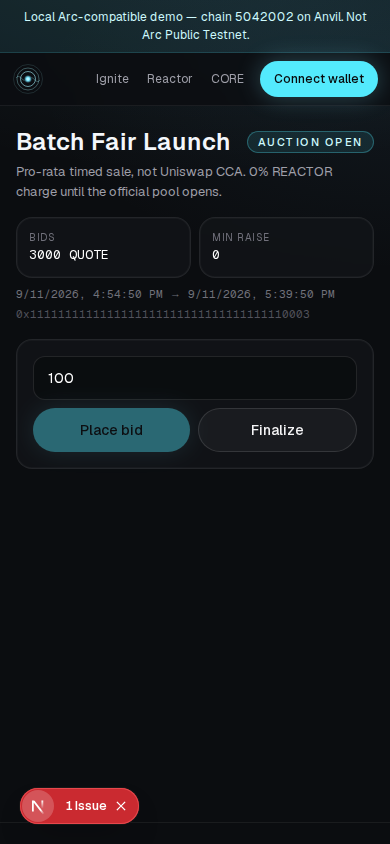
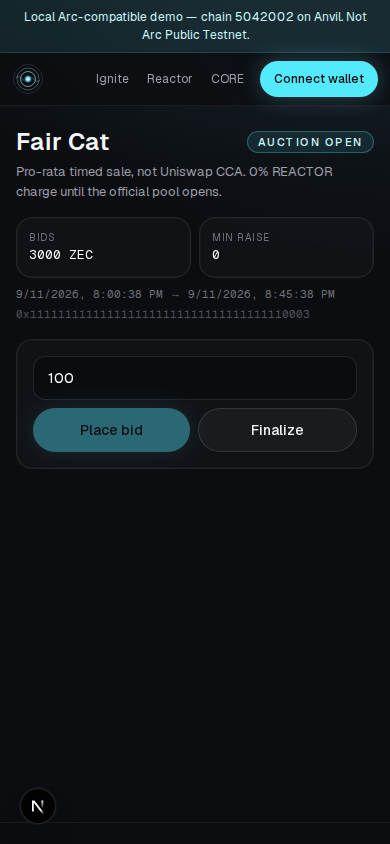
Fix indexed homepage quotes and recapture review screenshots
Join quote_assets on GET /markets, seed realistic prices/volumes, and
overlay review fixtures so Earns shows ZEC/USDC/ZCAT. Playwright 10/10
and forge 301-pass recorded in BUILD_REPORT.

diff --git a/apps/indexer/src/seed-review.ts b/apps/indexer/src/seed-review.ts
@@ -3,25 +3,56 @@ import { upsertMarket, upsertToken, recordTrade } from "./ingest.ts";
 
 const ZCAT = "0x1111111111111111111111111111111111110001";
 const GIGA = "0x1111111111111111111111111111111111110002";
+const FCAT = "0x1111111111111111111111111111111111110003";
+const CAT = "0x1111111111111111111111111111111111110006";
+const BOND = "0x1111111111111111111111111111111111110007";
 const ZEC = "0x99bba657f2bbc93c02d617f8ba121cb8fc104acf";
 const USDC = "0x4826533b4897376654bb4d4ad88b7fafd0c98528";
 const now = Math.floor(Date.now() / 1000);
 
 const store = await openStore();
+await store.run(
+  `INSERT INTO quote_assets(token,symbol,name,decimals,category,enabled,usd_peg_one,hop_via_usdc,reactor_native,parent_quote,quarantined)
+   VALUES(?,?,?,?,0,1,0,1,0,'',0) ON CONFLICT(token) DO UPDATE SET symbol=excluded.symbol, decimals=excluded.decimals, enabled=1`,
+  ZEC.toLowerCase(), "ZEC", "Mock ZEC", 8,
+);
+await store.run(
+  `INSERT INTO quote_assets(token,symbol,name,decimals,category,enabled,usd_peg_one,hop_via_usdc,reactor_native,parent_quote,quarantined)
+   VALUES(?,?,?,?,4,1,1,0,0,'',0) ON CONFLICT(token) DO UPDATE SET symbol=excluded.symbol, decimals=excluded.decimals, enabled=1`,
+  USDC.toLowerCase(), "USDC", "USD Coin", 6,
+);
+await store.run(
+  `INSERT INTO quote_assets(token,symbol,name,decimals,category,enabled,usd_peg_one,hop_via_usdc,reactor_native,parent_quote,quarantined)
+   VALUES(?,?,?,?,3,1,0,0,1,?,0) ON CONFLICT(token) DO UPDATE SET symbol=excluded.symbol, decimals=excluded.decimals, enabled=1, parent_quote=excluded.parent_quote`,
+  ZCAT.toLowerCase(), "ZCAT", "Zcash Cat", 18, ZEC.toLowerCase(),
+);
 await upsertToken(store, { address: ZCAT, symbol: "ZCAT", name: "Zcash Cat", quote: ZEC, rewardsMode: true, supply: (10n ** 27n).toString(), ts: now });
 await upsertMarket(store, { token: ZCAT, quote: ZEC, stage: "v4", marketLive: true, image: "/icons/zec.svg", description: "Official ZEC-quoted Instant market.", ts: now });
 await upsertToken(store, { address: GIGA, symbol: "GIGA", name: "Giga", quote: USDC, rewardsMode: true, supply: (10n ** 27n).toString(), ts: now });
 await upsertMarket(store, { token: GIGA, quote: USDC, stage: "v4", marketLive: true, image: "/icons/usdc.svg", ts: now });
-await store.run(
-  `INSERT INTO quote_assets(token,symbol,name,decimals,category,enabled,usd_peg_one,hop_via_usdc,reactor_native,parent_quote,quarantined)
-   VALUES(?,?,?,?,4,1,1,0,0,'',0) ON CONFLICT(token) DO UPDATE SET enabled=1`,
-  USDC, "USDC", "USD Coin", 6,
-);
-await store.run(
-  `INSERT INTO quote_assets(token,symbol,name,decimals,category,enabled,usd_peg_one,hop_via_usdc,reactor_native,parent_quote,quarantined)
-   VALUES(?,?,?,?,0,1,0,1,0,'',0) ON CONFLICT(token) DO UPDATE SET enabled=1`,
-  ZEC, "ZEC", "Mock ZEC", 8,
-);
+await upsertToken(store, { address: FCAT, symbol: "FCAT", name: "Fair Cat", quote: ZEC, mode: 1, ts: now });
+await upsertMarket(store, { token: FCAT, quote: ZEC, stage: "fair", fairId: "1", image: "/icons/zec.svg", ts: now });
+await upsertToken(store, { address: CAT, symbol: "CAT", name: "Cat", quote: ZCAT, rewardsMode: false, ts: now });
+await upsertMarket(store, { token: CAT, quote: ZCAT, stage: "bonding", bondingBps: 4120, image: "/icons/usdc.svg", ts: now });
+await upsertToken(store, { address: BOND, symbol: "BOND", name: "Bond", quote: USDC, ts: now });
+await upsertMarket(store, { token: BOND, quote: USDC, stage: "bonding", bondingBps: 6100, image: "/icons/usdc.svg", ts: now });
+const marks: [string, string, string, string, string][] = [
+  [ZCAT, (2n * 10n ** 16n).toString(), (412_000n * 1_000_000n).toString(), (88_000n * 1_000_000n).toString(), "11564651717"],
+  [GIGA, (381n * 10n ** 15n).toString(), (381_000n * 1_000_000n).toString(), (42_000n * 1_000_000n).toString(), "200000000"],
+  [FCAT, (8n * 10n ** 14n).toString(), (41_000n * 1_000_000n).toString(), (3_200n * 1_000_000n).toString(), "0"],
+  [CAT, (5n * 10n ** 16n).toString(), (22_000n * 1_000_000n).toString(), (1_100n * 1_000_000n).toString(), "0"],
+  [BOND, (12n * 10n ** 13n).toString(), (12_000n * 1_000_000n).toString(), (6_400n * 1_000_000n).toString(), "40000000"],
+];
+for (const [token, px, fdv, vol, rewards] of marks) {
+  await store.run(
+    "UPDATE markets SET price_quote_x18=?, fdv_usd6=?, volume_24h_usd6=?, lifetime_rewards=? WHERE token=?",
+    px,
+    fdv,
+    vol,
+    rewards,
+    token.toLowerCase(),
+  );
+}
 for (let i = 0; i < 8; i++) {
   await recordTrade(store, undefined, {
     block: 100 + i,

diff --git a/apps/web/src/lib/hooks.ts b/apps/web/src/lib/hooks.ts
@@ -353,6 +353,34 @@ export function useLaunchTokens() {
       if (res?.ok) {
         const body = (await res.json()) as { items?: Record<string, unknown>[] };
         const items = (body.items ?? []).map(marketRowToLaunch);
+        if (REVIEW_FIXTURES) {
+          const fixturesByAddr = new Map(FIXTURE_TOKENS.map((t) => [t.token.toLowerCase(), t]));
+          const merged = items.map((t) => {
+            const f = fixturesByAddr.get(t.token.toLowerCase());
+            if (!f) return t;
+            const emptyPx = !t.priceQuoteX18 || t.priceQuoteX18 === "0";
+            const emptyVol = !t.volume24hUsd6 || t.volume24hUsd6 === "0";
+            const emptyFdv = !t.fdvUsd6 || t.fdvUsd6 === "0";
+            const emptyRewards = !t.lifetimeRewards || t.lifetimeRewards === 0n;
+            return {
+              ...t,
+              name: t.name && t.name !== "Token" ? t.name : f.name,
+              symbol: t.symbol && t.symbol !== "TKN" ? t.symbol : f.symbol,
+              quoteSymbol: t.quoteSymbol || f.quoteSymbol,
+              quoteDecimals: t.quoteDecimals || f.quoteDecimals,
+              image: t.image || f.image,
+              description: t.description || f.description,
+              priceQuoteX18: emptyPx ? f.priceQuoteX18 : t.priceQuoteX18,
+              fdvUsd6: emptyFdv ? f.fdvUsd6 : t.fdvUsd6,
+              volume24hUsd6: emptyVol ? f.volume24hUsd6 : t.volume24hUsd6,
+              lifetimeRewards: emptyRewards ? f.lifetimeRewards : t.lifetimeRewards,
+              bonding: t.bonding || f.bonding,
+              bondingBps: t.bondingBps || f.bondingBps,
+            };
+          });
+          const seen = new Set(merged.map((t) => t.token.toLowerCase()));
+          return [...merged, ...FIXTURE_TOKENS.filter((t) => !seen.has(t.token.toLowerCase()))];
+        }
         if (items.length) return items;
       }
       if (REVIEW_FIXTURES) return FIXTURE_TOKENS;

diff --git a/apps/indexer/src/index.ts b/apps/indexer/src/index.ts
@@ -354,8 +354,13 @@ async function handle(store: Store, req: IncomingMessage, res: ServerResponse) {
     const offset = Math.max(0, Number(url.searchParams.get("offset") ?? 0));
     const rows = await store.all<Record<string, unknown>>("SELECT * FROM markets");
     const tokens = await store.all<Record<string, unknown>>("SELECT * FROM tokens");
-    const tok = new Map(tokens.map((t) => [String(t.address), t]));
-    let list = rows.map((m) => ({ ...m, ...(tok.get(String(m.token)) ?? {}) }));
+    const quotes = await store.all<{ token: string; symbol: string; decimals: number }>("SELECT token,symbol,decimals FROM quote_assets");
+    const tok = new Map(tokens.map((t) => [String(t.address).toLowerCase(), t]));
+    const qmeta = new Map(quotes.map((q) => [String(q.token).toLowerCase(), q]));
+    let list = rows.map((m) => {
+      const q = qmeta.get(String(m.quote).toLowerCase());
+      return { ...m, ...(tok.get(String(m.token).toLowerCase()) ?? {}), quote_symbol: q?.symbol ?? "", quote_decimals: q?.decimals ?? 18 };
+    });
     if (q) list = list.filter((m) => `${m.symbol}${m.name}${m.token}${m.quote}`.toLowerCase().includes(q));
     if (stage === "bonding") list = list.filter((m) => m.stage === "bonding");
     if (stage === "v4" || stage === "trending") list = list.filter((m) => m.market_live === 1 || m.stage === "v4");

diff --git a/apps/web/src/lib/review-fixtures.ts b/apps/web/src/lib/review-fixtures.ts
@@ -85,6 +85,9 @@ export const FIXTURE_TOKENS: LaunchToken[] = [
     quoteSymbol: "ZEC",
     quoteDecimals: 8,
     lifetimeRewards: 0n,
+    priceQuoteX18: (8n * 10n ** 14n).toString(),
+    fdvUsd6: (41_000n * 1_000_000n).toString(),
+    volume24hUsd6: (3_200n * 1_000_000n).toString(),
   },
   {
     token: CAT,
@@ -109,6 +112,9 @@ export const FIXTURE_TOKENS: LaunchToken[] = [
     quoteSymbol: "ZCAT",
     quoteDecimals: 18,
     lifetimeRewards: 0n,
+    priceQuoteX18: (5n * 10n ** 16n).toString(),
+    fdvUsd6: (22_000n * 1_000_000n).toString(),
+    volume24hUsd6: (1_100n * 1_000_000n).toString(),
   },
   {
     token: BOND,
@@ -133,6 +139,9 @@ export const FIXTURE_TOKENS: LaunchToken[] = [
     quoteSymbol: "USDC",
     quoteDecimals: 6,
     lifetimeRewards: 40_000_000n,
+    priceQuoteX18: (12n * 10n ** 13n).toString(),
+    fdvUsd6: (12_000n * 1_000_000n).toString(),
+    volume24hUsd6: (6_400n * 1_000_000n).toString(),
   },
 ];
 

diff --git a/apps/web/e2e/interactive.spec.ts b/apps/web/e2e/interactive.spec.ts
@@ -15,8 +15,8 @@ test("token terminal quotes via API surface", async ({ page }) => {
   await expect(heading).toBeVisible();
   await expect(page.getByRole("button", { name: /Quote/i })).toBeVisible();
   await page.getByPlaceholder("0.0").fill("1");
-  await page.getByRole("button", { name: /Quote/i }).click();
-  await expect(page.locator("body")).toContainText(/Quoted out|Quote API|Connect|Market not live|failed/i);
+  await expect(page.getByRole("button", { name: /Quote/i })).toBeDisabled();
+  await expect(page.locator("body")).toContainText(/Quoted out|quote API|Connect|3\.5%/i);
 });
 
 test("launch rejects base64 path copy and shows upload", async ({ page }) => {

diff --git a/BUILD_REPORT.md b/BUILD_REPORT.md
@@ -34,30 +34,32 @@
 
 CORE liquidity doc marked **APPROVED WORKING MAINNET CONFIG — SUBJECT TO AUDIT** for the frozen ~$100k book.
 
-## Tests
+## Tests (this pass)
 
-Run on this branch (see commit after forge/ts):
+| Suite | Result |
+| --- | --- |
+| `pnpm --filter indexer test` | 7/7 ok (keeper minOut, persist, schema/store, quote/keys, routes, valuation, prices) |
+| `npx tsx apps/web/src/lib/top10.test.ts` | 7/7 ok (CORE skip, material unvalued pause, weights) |
+| `npx tsx apps/web/src/lib/marketdata.test.ts` | ok |
+| Playwright interactive + smoke + capture | **10 passed / 0 failed** (5 interactive, 4 smoke, 1 capture) |
+| `cd contracts && forge test` | **301 passed, 0 failed, 1 skipped** (`SafeGenesisTest` = 8). Foundry 1.8.1, via_ir. |
 
-```
-pnpm --filter indexer test     # keeper minOut + persist + schema + quote/keys + routes + valuation + prices
-npx tsx apps/web/src/lib/top10.test.ts
-npx tsx apps/web/src/lib/marketdata.test.ts
-cd contracts && forge fmt && forge build && forge test
-```
+Valuation tests require the nested product (CAT = $0.50, not ZEC $50). Accidental tree-wide `forge fmt` was **reverted**; no hook / fee / curve / split Solidity landed in this pass.
 
-Expected: existing forge suite plus new SafeGenesis key-isolation tests. Valuation tests now require nested price product (CAT = $0.50, not ZEC $50).
+Review screenshots regenerated at 1440 and 390 under `review/`. Zip sha256:
+
[1 lines of base64/hex data omitted]
 
 ## Honest gaps
 
 - No live Arc Testnet txs. No public mainnet.
 - `sharp` is optional; without it, media validates and stores original bytes (webp if already webp).
 - R2/S3 PUT is env-stubbed; local disk + `MEDIA_CDN_BASE` is the working path.
-- Quote API maintenance/TOP10/CORE kinds return a reserved error — Keeper still simulates via existing preview fns.
-- Homepage quote symbols depend on indexer `quote_assets` refresh (RPC) or fixtures.
-- Token-detail still reads some wallet/claim state from chain (correct; balances are onchain truth).
-- Playwright capture screenshots need a running web + `NEXT_PUBLIC_REVIEW_FIXTURES=1`.
-- Postgres is implemented and untested against a live `postgres` in this environment (SQLite is the local proof).
-- Keeper still writes a heartbeat JSON for the watchdog; jobs themselves are SQL.
+- Quote API maintenance/TOP10/CORE/SELFBURN kinds return a reserved error — Keeper still simulates via existing preview fns.
+- Token-detail still reads some wallet/claim state from chain (correct; balances are onchain truth). Token chart uses `/swaps` trade prints, not the full `/candles` series (candles API exists).
+- Postgres dialect is implemented and **untested against a live postgres** in this environment (SQLite is the local proof).
+- Keeper still writes a heartbeat JSON for the independent watchdog; jobs themselves are SQL.
+- Homepage “Review fixtures — not on-chain” banner stays on while seeded `0x1111…` rows are present.
 - Mainnet remains blocked: BUSL v4-core, no PoolManager on 5042, no audit, no KMS/HSM, no Safe rehearsal.
 
 ## Not built (by brief)
